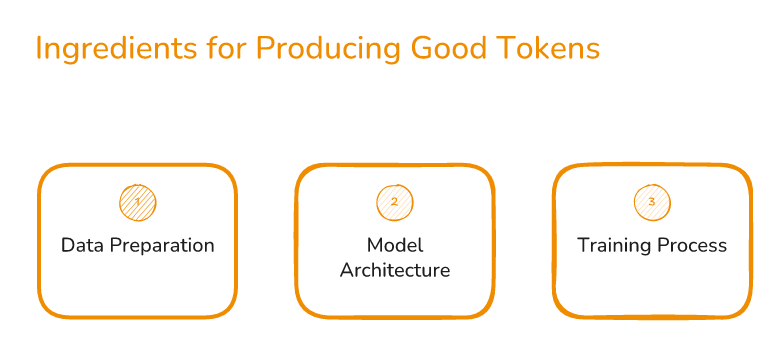
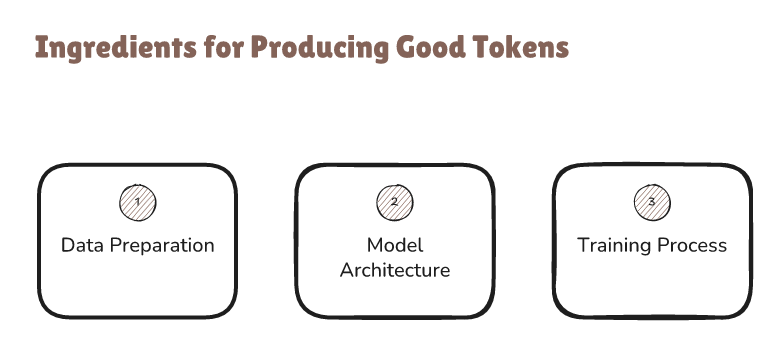
update formatting

diff --git a/_sass/_distill.scss b/_sass/_distill.scss
@@ -38,13 +38,21 @@ d-article {
   hr {
     border-bottom-color: var(--global-divider-color) !important;
   }
-  table {
+  table,
+  table tbody,
+  table thead {
     border: 1px dashed var(--global-divider-color) !important;
     border-collapse: collapse !important;
   }
   table th,
-  table td {
+  table td,
+  table tbody tr td,
+  table thead tr th,
+  table tbody tr th {
     border: 1px dashed var(--global-divider-color) !important;
+    border-style: dashed !important;
+    border-width: 1px !important;
+    border-color: var(--global-divider-color) !important;
   }
   a {
     color: var(--global-theme-color) !important;

diff --git a/index.md b/index.md
@@ -70,21 +70,21 @@ The PyTorch training loop is something most of us know well. But before diving i
 
 The forward pass moves workflow : input X enters Layer 1, gets multiplied with that layer's weights, a bias is added, and the result becomes activation A₁. That activation becomes the input to Layer 2, where the same operation happens again, giving us our final prediction Ŷ. This pattern holds for any number of layers — the output of layer n-1 is always the input to layer n. To complete a forward pass, each layer only needs two things: its Parameters (w, b) and the incoming Activations.
 
-<table style="width:100%; border-collapse:collapse; margin:24px 0; font-size:15px;">
+<table style="width:100%; border-collapse:collapse; margin:24px 0; font-size:15px; border:1px dashed #ccc;">
   <thead>
     <tr style="text-align:left;">
-      <th style="padding:10px 12px;">Layer</th>
-      <th style="padding:10px 12px;">Equation</th>
+      <th style="padding:10px 12px; border:1px dashed #ccc;">Layer</th>
+      <th style="padding:10px 12px; border:1px dashed #ccc;">Equation</th>
     </tr>
   </thead>
   <tbody>
     <tr>
-      <td style="padding:10px 12px; white-space:nowrap;">Layer 1</td>
-      <td style="padding:10px 12px;">$\mathbf{A}_1 = \mathbf{X} \cdot \mathbf{W}_1^\top + \mathbf{b}_1$</td>
+      <td style="padding:10px 12px; white-space:nowrap; border:1px dashed #ccc;">Layer 1</td>
+      <td style="padding:10px 12px; border:1px dashed #ccc;">$\mathbf{A}_1 = \mathbf{X} \cdot \mathbf{W}_1^\top + \mathbf{b}_1$</td>
     </tr>
     <tr>
-      <td style="padding:10px 12px; white-space:nowrap;">Layer 2 (Output)</td>
-      <td style="padding:10px 12px;">$\hat{\mathbf{Y}} = \mathbf{A}_1 \cdot \mathbf{W}_2^\top + \mathbf{b}_2$</td>
+      <td style="padding:10px 12px; white-space:nowrap; border:1px dashed #ccc;">Layer 2 (Output)</td>
+      <td style="padding:10px 12px; border:1px dashed #ccc;">$\hat{\mathbf{Y}} = \mathbf{A}_1 \cdot \mathbf{W}_2^\top + \mathbf{b}_2$</td>
     </tr>
   </tbody>
 </table>
@@ -110,66 +110,66 @@ backward pass. Let's look at the equations behind it.
   </ol>
 </d-aside>
 
-<table style="width:100%; border-collapse:collapse; margin:24px 0; font-size:15px;">
+<table style="width:100%; border-collapse:collapse; margin:24px 0; font-size:15px; border:1px dashed #ccc;">
   <thead>
     <tr style="text-align:left;">
-      <th style="padding:10px 12px;">Step</th>
-      <th style="padding:10px 12px;">Description</th>
-      <th style="padding:10px 12px;">Equation</th>
+      <th style="padding:10px 12px; border:1px dashed #ccc;">Step</th>
+      <th style="padding:10px 12px; border:1px dashed #ccc;">Description</th>
+      <th style="padding:10px 12px; border:1px dashed #ccc;">Equation</th>
     </tr>
   </thead>
   <tbody>
     <tr style="background:var(--global-code-bg-color, #f8f8f8);">
-      <td style="padding:10px 12px;" colspan="3"><strong>Loss</strong></td>
+      <td style="padding:10px 12px; border:1px dashed #ccc;" colspan="3"><strong>Loss</strong></td>
     </tr>
     <tr>
-      <td style="padding:10px 12px; white-space:nowrap;">Loss gradient</td>
-      <td style="padding:10px 12px;">Gradient of loss w.r.t output</td>
-      <td style="padding:10px 12px;">$\frac{\nabla L}{\nabla \hat{Y}}$</td>
+      <td style="padding:10px 12px; white-space:nowrap; border:1px dashed #ccc;">Loss gradient</td>
+      <td style="padding:10px 12px; border:1px dashed #ccc;">Gradient of loss w.r.t output</td>
+      <td style="padding:10px 12px; border:1px dashed #ccc;">$\frac{\nabla L}{\nabla \hat{Y}}$</td>
     </tr>
     <tr style="background:var(--global-code-bg-color, #f8f8f8);">
-      <td style="padding:10px 12px;" colspan="3"><strong>Layer 2 — Gradients</strong></td>
+      <td style="padding:10px 12px; border:1px dashed #ccc;" colspan="3"><strong>Layer 2 — Gradients</strong></td>
     </tr>
     <tr>
-      <td style="padding:10px 12px; white-space:nowrap;">w.r.t Weights $W_2$</td>
-      <td style="padding:10px 12px;">For updating weights</td>
-      <td style="padding:10px 12px;">$\frac{\nabla L}{\nabla W_2} = \frac{\nabla L}{\nabla \hat{Y}} \cdot A_1^\top$</td>
+      <td style="padding:10px 12px; white-space:nowrap; border:1px dashed #ccc;">w.r.t Weights $W_2$</td>
+      <td style="padding:10px 12px; border:1px dashed #ccc;">For updating weights</td>
+      <td style="padding:10px 12px; border:1px dashed #ccc;">$\frac{\nabla L}{\nabla W_2} = \frac{\nabla L}{\nabla \hat{Y}} \cdot A_1^\top$</td>
     </tr>
     <tr>
-      <td style="padding:10px 12px; white-space:nowrap;">w.r.t Activations $A_1$</td>
-      <td style="padding:10px 12px;">Passed to preceeding layer</td>
-      <td style="padding:10px 12px;">$\frac{\nabla L}{\nabla A_1} = \frac{\nabla L}{\nabla \hat{Y}} \cdot W_2$</td>
+      <td style="padding:10px 12px; white-space:nowrap; border:1px dashed #ccc;">w.r.t Activations $A_1$</td>
+      <td style="padding:10px 12px; border:1px dashed #ccc;">Passed to preceeding layer</td>
+      <td style="padding:10px 12px; border:1px dashed #ccc;">$\frac{\nabla L}{\nabla A_1} = \frac{\nabla L}{\nabla \hat{Y}} \cdot W_2$</td>
     </tr>
     <tr style="background:var(--global-code-bg-color, #f8f8f8);">
-      <td style="padding:10px 12px;" colspan="3"><strong>Layer 1 — Gradients</strong></td>
+      <td style="padding:10px 12px; border:1px dashed #ccc;" colspan="3"><strong>Layer 1 — Gradients</strong></td>
     </tr>
     <tr>
-      <td style="padding:10px 12px; white-space:nowrap;">w.r.t Weights $W_1$</td>
-      <td style="padding:10px 12px;">For updating weights</td>
-      <td style="padding:10px 12px;">$\frac{\nabla L}{\nabla W_1} = \frac{\nabla L}{\nabla A_1} \cdot X^\top$</td>
+      <td style="padding:10px 12px; white-space:nowrap; border:1px dashed #ccc;">w.r.t Weights $W_1$</td>
+      <td style="padding:10px 12px; border:1px dashed #ccc;">For updating weights</td>
+      <td style="padding:10px 12px; border:1px dashed #ccc;">$\frac{\nabla L}{\nabla W_1} = \frac{\nabla L}{\nabla A_1} \cdot X^\top$</td>
     </tr>
     <tr>
-      <td style="padding:10px 12px; white-space:nowrap;">w.r.t Activations $X$</td>
-      <td style="padding:10px 12px;">Backpropagated to input</td>
-      <td style="padding:10px 12px;">$\frac{\nabla L}{\nabla X} = \frac{\nabla L}{\nabla A_1} \cdot W_1$</td>
+      <td style="padding:10px 12px; white-space:nowrap; border:1px dashed #ccc;">w.r.t Activations $X$</td>
+      <td style="padding:10px 12px; border:1px dashed #ccc;">Backpropagated to input</td>
+      <td style="padding:10px 12px; border:1px dashed #ccc;">$\frac{\nabla L}{\nabla X} = \frac{\nabla L}{\nabla A_1} \cdot W_1$</td>
     </tr>
     <tr style="background:var(--global-code-bg-color, #f8f8f8);">
-      <td style="padding:10px 12px;" colspan="3"><strong>Parameter Update (Adam Optimizer)</strong></td>
+      <td style="padding:10px 12px; border:1px dashed #ccc;" colspan="3"><strong>Parameter Update (Adam Optimizer)</strong></td>
     </tr>
     <tr>
-      <td style="padding:10px 12px; white-space:nowrap;">1st moment</td>
-      <td style="padding:10px 12px;">Exponential moving avg of gradients</td>
-      <td style="padding:10px 12px;">$m_t = \beta_1 m_{t-1} + (1 - \beta_1) \frac{\nabla L}{\nabla W}$</td>
+      <td style="padding:10px 12px; white-space:nowrap; border:1px dashed #ccc;">1st moment</td>
+      <td style="padding:10px 12px; border:1px dashed #ccc;">Exponential moving avg of gradients</td>
+      <td style="padding:10px 12px; border:1px dashed #ccc;">$m_t = \beta_1 m_{t-1} + (1 - \beta_1) \frac{\nabla L}{\nabla W}$</td>
     </tr>
     <tr>
-      <td style="padding:10px 12px; white-space:nowrap;">2nd moment</td>
-      <td style="padding:10px 12px;">Exponential moving avg of squared gradients</td>
-      <td style="padding:10px 12px;">$v_t = \beta_2 v_{t-1} + (1 - \beta_2) \left(\frac{\nabla L}{\nabla W}\right)^2$</td>
+      <td style="padding:10px 12px; white-space:nowrap; border:1px dashed #ccc;">2nd moment</td>
+      <td style="padding:10px 12px; border:1px dashed #ccc;">Exponential moving avg of squared gradients</td>
+      <td style="padding:10px 12px; border:1px dashed #ccc;">$v_t = \beta_2 v_{t-1} + (1 - \beta_2) \left(\frac{\nabla L}{\nabla W}\right)^2$</td>
     </tr>
     <tr>
-      <td style="padding:10px 12px; white-space:nowrap;">Weight update</td>
-      <td style="padding:10px 12px;">Adaptive learning rate step</td>
-      <td style="padding:10px 12px;">$W_{t+1} = W_t - \eta \frac{m_t}{\sqrt{v_t} + \epsilon}$</td>
+      <td style="padding:10px 12px; white-space:nowrap; border:1px dashed #ccc;">Weight update</td>
+      <td style="padding:10px 12px; border:1px dashed #ccc;">Adaptive learning rate step</td>
+      <td style="padding:10px 12px; border:1px dashed #ccc;">$W_{t+1} = W_t - \eta \frac{m_t}{\sqrt{v_t} + \epsilon}$</td>
     </tr>
   </tbody>
 </table>
@@ -178,7 +178,7 @@ backward pass. Let's look at the equations behind it.
 
 {% include figure.liquid path="assets/img/llm-training/section-2/backward-pass.png" class="img-small" caption="Figure-2: Backward Pass" %}
 
-<table style="width:100%; border-collapse:collapse; margin:24px 0; font-size:14px; table-layout:fixed;">
+<table style="width:100%; border-collapse:collapse; margin:24px 0; font-size:14px; table-layout:fixed; border:1px dashed #ccc;">
   <colgroup>
     <col style="width:35%;">
     <col style="width:18%;">
@@ -186,36 +186,36 @@ backward pass. Let's look at the equations behind it.
   </colgroup>
   <thead>
     <tr style="text-align:left;">
-      <th style="padding:8px 12px;">Code</th>
-      <th style="padding:8px 12px; text-align:center;">Phase</th>
-      <th style="padding:8px 12px;">What happens</th>
+      <th style="padding:8px 12px; border:1px dashed #ccc;">Code</th>
+      <th style="padding:8px 12px; text-align:center; border:1px dashed #ccc;">Phase</th>
+      <th style="padding:8px 12px; border:1px dashed #ccc;">What happens</th>
     </tr>
   </thead>
   <tbody>
     <tr>
-      <td style="padding:8px 12px; font-family:monospace; white-space:nowrap;"><code>output = model(input)</code></td>
-      <td style="padding:8px 12px; text-align:center;"><span style="display:inline-block; min-width:110px; background:#e7f0fa; color:#1971c2; padding:3px 10px; border-radius:4px; font-weight:600; font-size:12px; text-align:center;">Forward Pass</span></td>
-      <td style="padding:8px 12px;">Input flows through layers, producing activations and final prediction</td>
+      <td style="padding:8px 12px; font-family:monospace; white-space:nowrap; border:1px dashed #ccc;"><code>output = model(input)</code></td>
+      <td style="padding:8px 12px; text-align:center; border:1px dashed #ccc;"><span style="display:inline-block; min-width:110px; background:#e7f0fa; color:#1971c2; padding:3px 10px; border-radius:4px; font-weight:600; font-size:12px; text-align:center;">Forward Pass</span></td>
+      <td style="padding:8px 12px; border:1px dashed #ccc;">Input flows through layers, producing activations and final prediction</td>
     </tr>
     <tr>
-      <td style="padding:8px 12px; font-family:monospace; white-space:nowrap;"><code>loss = loss_fn(output, target)</code></td>
-      <td style="padding:8px 12px; text-align:center;"><span style="display:inline-block; min-width:110px; background:#e7f0fa; color:#1971c2; padding:3px 10px; border-radius:4px; font-weight:600; font-size:12px; text-align:center;">Forward Pass</span></td>
-      <td style="padding:8px 12px;">Compare prediction with target to compute scalar loss</td>
+      <td style="padding:8px 12px; font-family:monospace; white-space:nowrap; border:1px dashed #ccc;"><code>loss = loss_fn(output, target)</code></td>
+      <td style="padding:8px 12px; text-align:center; border:1px dashed #ccc;"><span style="display:inline-block; min-width:110px; background:#e7f0fa; color:#1971c2; padding:3px 10px; border-radius:4px; font-weight:600; font-size:12px; text-align:center;">Forward Pass</span></td>
+      <td style="padding:8px 12px; border:1px dashed #ccc;">Compare prediction with target to compute scalar loss</td>
     </tr>
     <tr>
-      <td style="padding:8px 12px; font-family:monospace; white-space:nowrap;"><code>loss.backward()</code></td>
-      <td style="padding:8px 12px; text-align:center;"><span style="display:inline-block; min-width:110px; background:#fce4ec; color:#c2255c; padding:3px 10px; border-radius:4px; font-weight:600; font-size:12px; text-align:center;">Backward Pass</span></td>
-      <td style="padding:8px 12px;">Compute gradients w.r.t weights and activations for every layer</td>
+      <td style="padding:8px 12px; font-family:monospace; white-space:nowrap; border:1px dashed #ccc;"><code>loss.backward()</code></td>
+      <td style="padding:8px 12px; text-align:center; border:1px dashed #ccc;"><span style="display:inline-block; min-width:110px; background:#fce4ec; color:#c2255c; padding:3px 10px; border-radius:4px; font-weight:600; font-size:12px; text-align:center;">Backward Pass</span></td>
+      <td style="padding:8px 12px; border:1px dashed #ccc;">Compute gradients w.r.t weights and activations for every layer</td>
     </tr>
     <tr>
-      <td style="padding:8px 12px; font-family:monospace; white-space:nowrap;"><code>optimizer.step()</code></td>
-      <td style="padding:8px 12px; text-align:center;"><span style="display:inline-block; min-width:110px; background:#efe8e5; color:#846358; padding:3px 10px; border-radius:4px; font-weight:600; font-size:12px; text-align:center;">Optimizer Step</span></td>
-      <td style="padding:8px 12px;">Update optimizer states (e.g. Adam moments) and adjust weights</td>
+      <td style="padding:8px 12px; font-family:monospace; white-space:nowrap; border:1px dashed #ccc;"><code>optimizer.step()</code></td>
+      <td style="padding:8px 12px; text-align:center; border:1px dashed #ccc;"><span style="display:inline-block; min-width:110px; background:#efe8e5; color:#846358; padding:3px 10px; border-radius:4px; font-weight:600; font-size:12px; text-align:center;">Optimizer Step</span></td>
+      <td style="padding:8px 12px; border:1px dashed #ccc;">Update optimizer states (e.g. Adam moments) and adjust weights</td>
     </tr>
     <tr>
-      <td style="padding:8px 12px; font-family:monospace; white-space:nowrap;"><code>optimizer.zero_grad()</code></td>
-      <td style="padding:8px 12px; text-align:center;"><span style="display:inline-block; min-width:110px; background:#f0f0f0; color:#555; padding:3px 10px; border-radius:4px; font-weight:600; font-size:12px; text-align:center;">Cleanup</span></td>
-      <td style="padding:8px 12px;">Reset gradients to zero before the next batch</td>
+      <td style="padding:8px 12px; font-family:monospace; white-space:nowrap; border:1px dashed #ccc;"><code>optimizer.zero_grad()</code></td>
+      <td style="padding:8px 12px; text-align:center; border:1px dashed #ccc;"><span style="display:inline-block; min-width:110px; background:#f0f0f0; color:#555; padding:3px 10px; border-radius:4px; font-weight:600; font-size:12px; text-align:center;">Cleanup</span></td>
+      <td style="padding:8px 12px; border:1px dashed #ccc;">Reset gradients to zero before the next batch</td>
     </tr>
   </tbody>
 </table>
